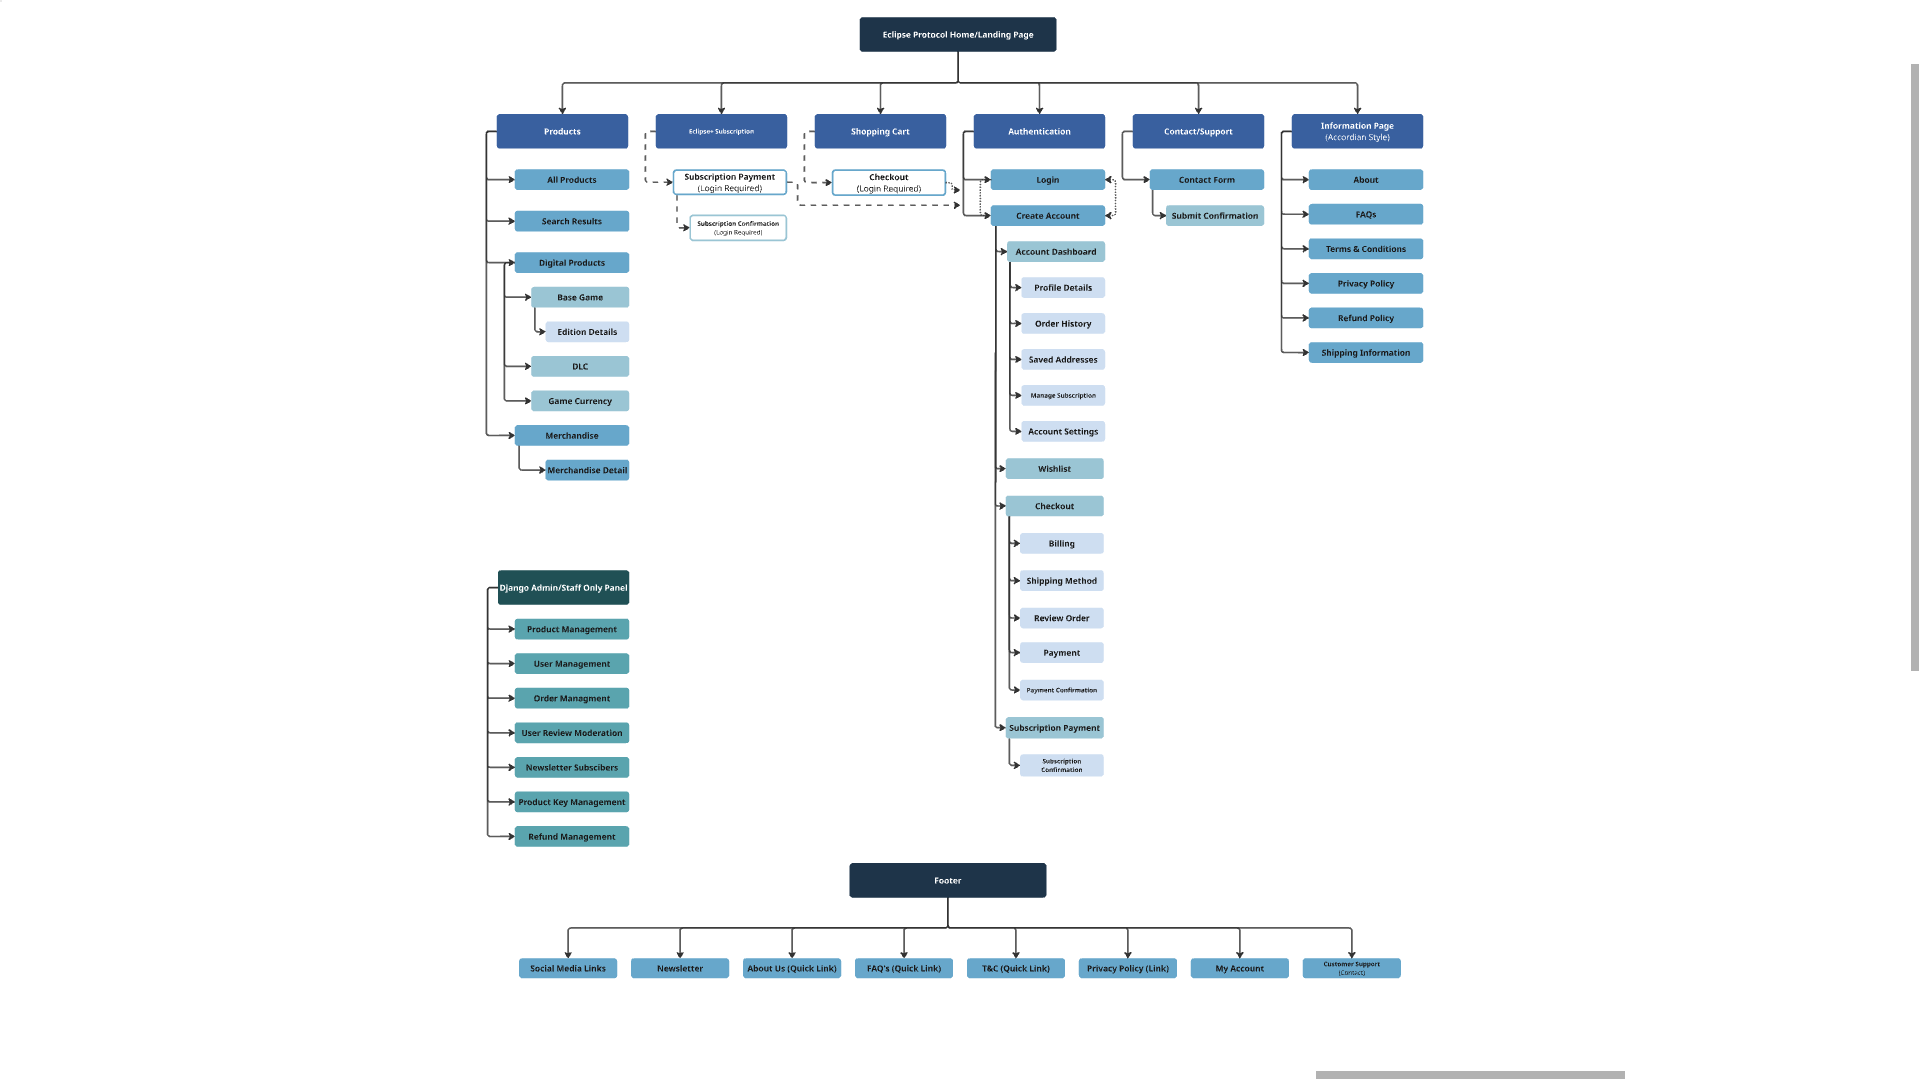
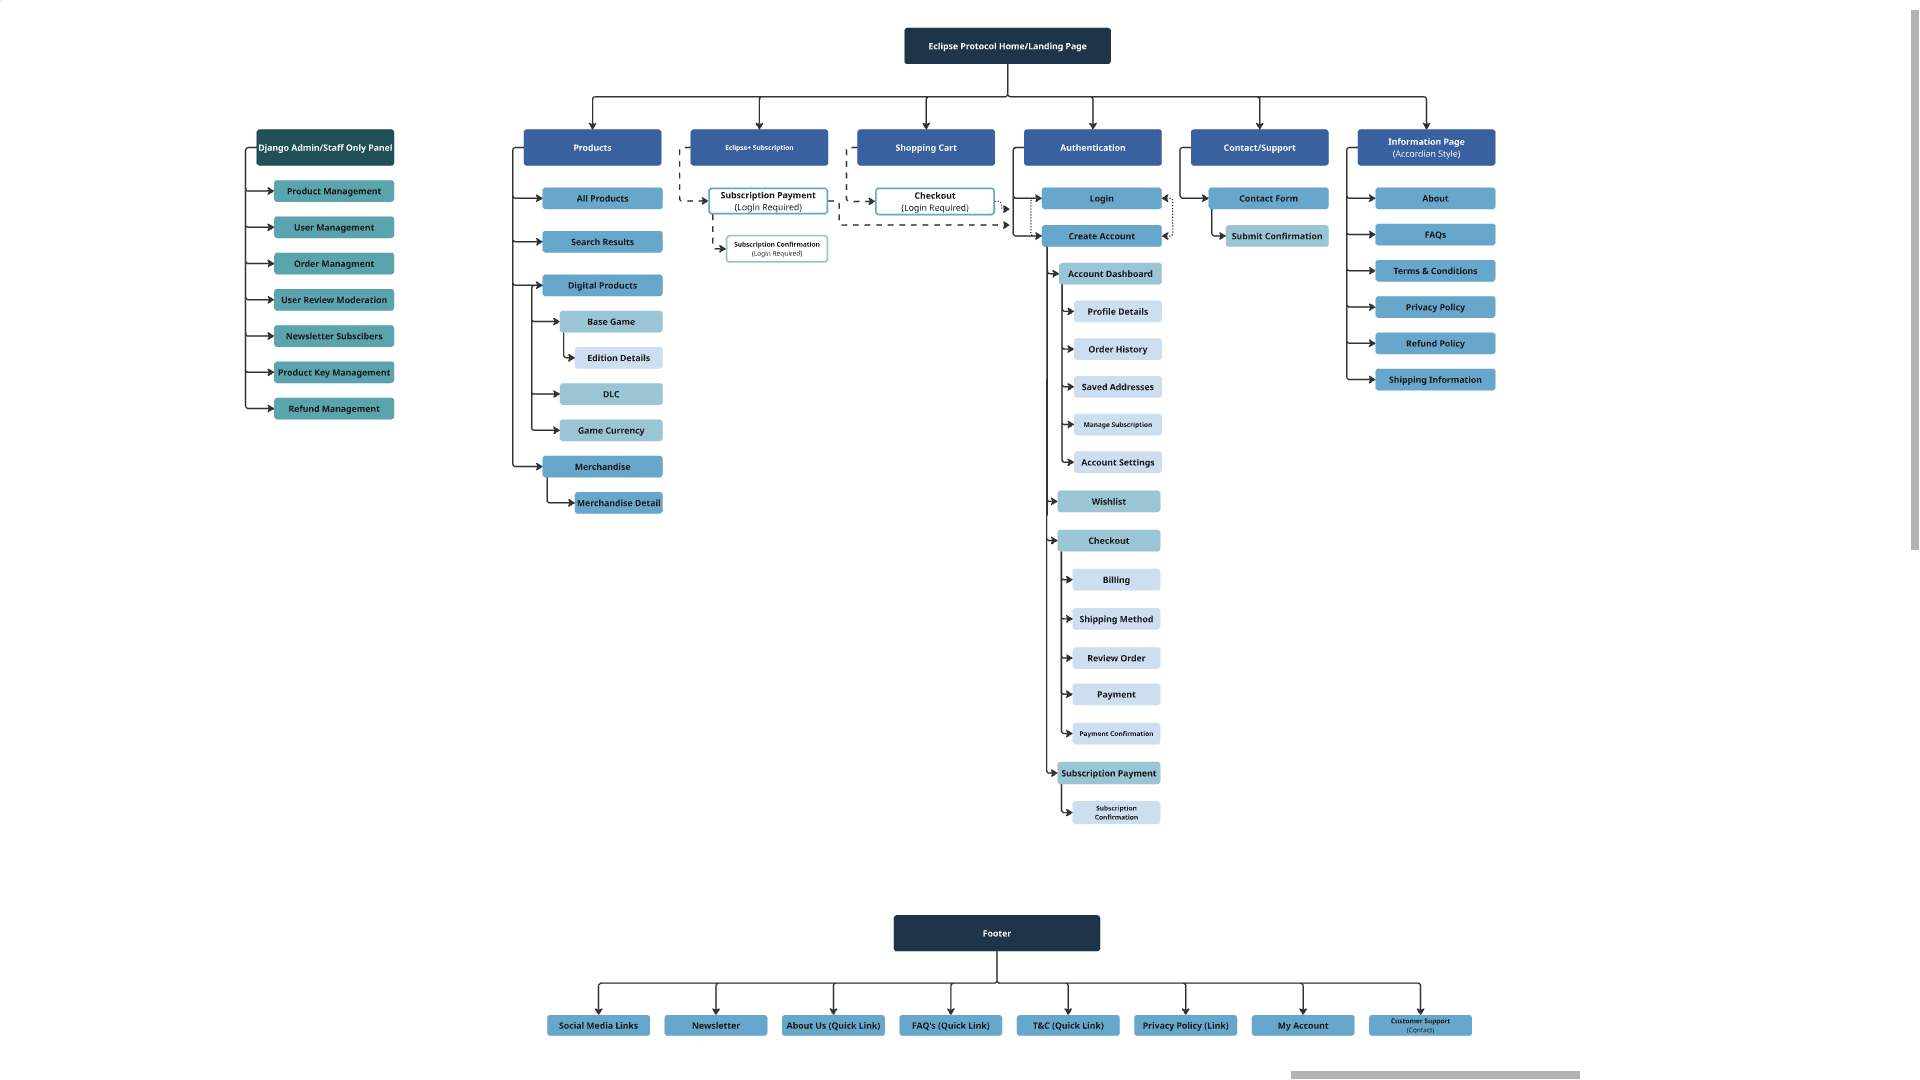
docs: add user flow diagrams to folder and readme

diff --git a/README.md b/README.md
@@ -398,3 +398,11 @@ Home Page
 ### Digital Product Purchase Flow:
 
 ![Eclipse Protocol E-Commerce Digital Product Purchase Flow](docs/images/diagrams/digital-product-purchase-flow.png) 
+
+### Registration & Login Flow:
+
+![Eclipse Protocol E-Commerce Registration and Login Flow](docs/images/diagrams/registration-login-flow.png)
+
+### Admin Product Management Flow:
+
+![Eclipse Protocol E-Commerce Admin Product Management Flow](docs/images/diagrams/admin-product-management-flow.png)
